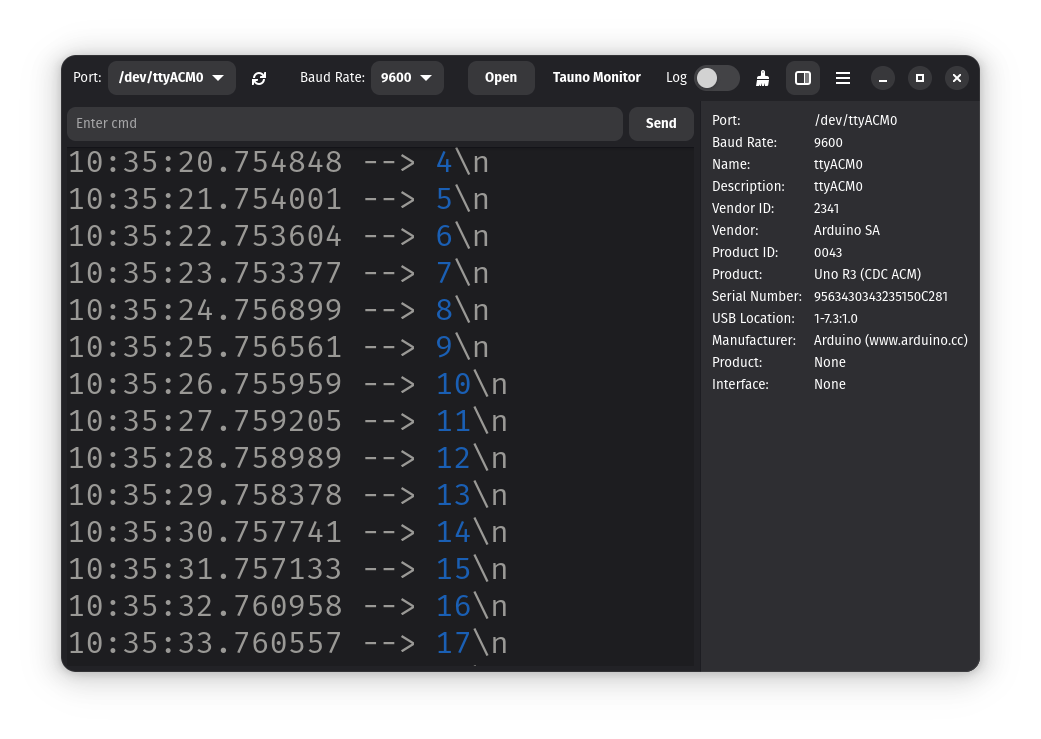
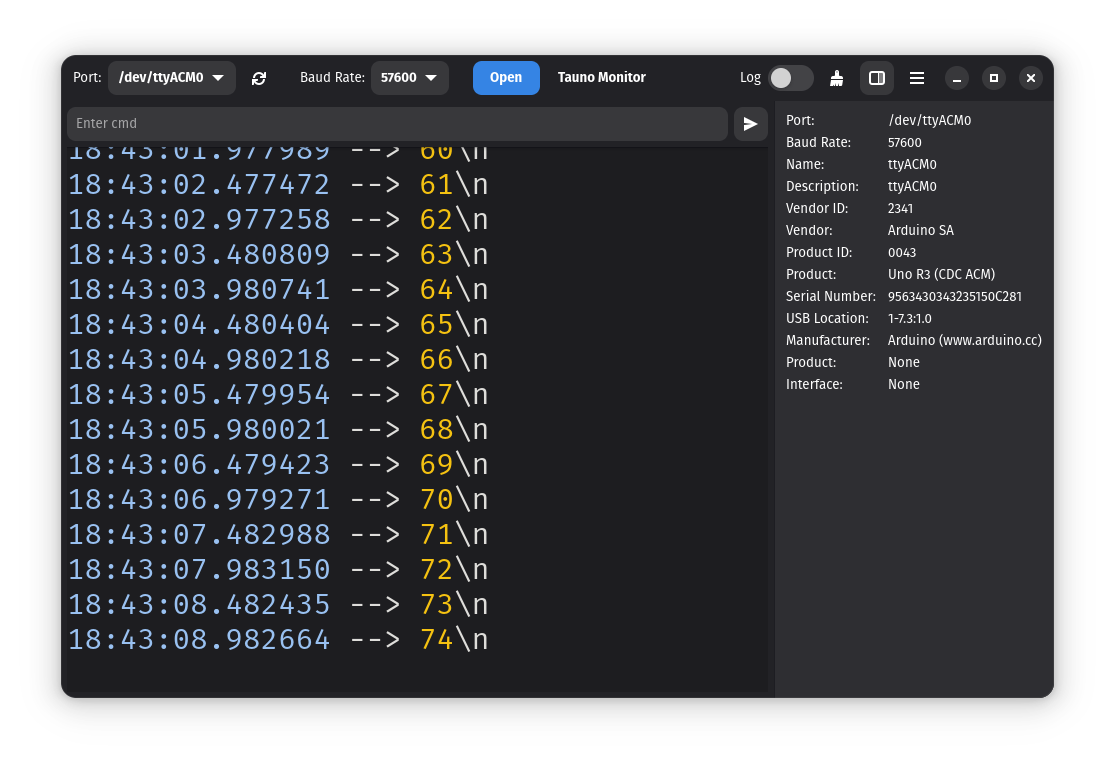
ui tweaks and log fix

Changed region(s): [[0.0307, 0.0622, 0.9529, 0.9337], [0.6455, 0.0622, 0.83, 0.1245]]

diff --git a/src/tauno_logging.py b/src/tauno_logging.py
@@ -1,7 +1,7 @@
 # File:    tauno_logging.py
 # Author:  Tauno Erik
 # Started: 29.07.2024
-# Edited:  31.07.2024
+# Edited:  19.07.2025
 
 from datetime import datetime
 
@@ -9,41 +9,58 @@ class TaunoLogging():
 
     def __init__(self, window_reference):
         self.window_reference = window_reference
-        self.file_path = ''
+        self.log_file_path = ''
         self.file_handle = None
         self.hex_counter = 0
 
 
     def create_file(self, file_path):
         """ Creates log file. Returns True if successful. """
-        self.file_path = file_path
+        print("log:create_file()")
+
+        self.log_file_path = file_path
+
         try:
             open(self.log_file_path, "x")
-            # self.write_data('')
+            print(f"logfile:{self.log_file_path}")
             return True
-        except:
+        except Exception as e:
+            print(f"Error creating file: {e}")
             return False
 
 
     def write_data(self, data):
         """ Writes data to log file. Adds start time. """
+        print("log:write_data()")
         if self.window_reference.write_logs:
             # Open the file the first time the method is called
             if self.file_handle is None:
-                self.file_handle = open(self.file_path, 'a')
-                # Write start time
-                current_datetime = datetime.now().strftime("%Y-%m-%d-%H-%M-%S")
-                self.write_data("Tauno-Monitor log started: " + current_datetime + "\n")
+                try:
+                    self.file_handle = open(self.log_file_path, 'a')
+                    # Write start time
+                    current_datetime = datetime.now().strftime("%Y-%m-%d-%H-%M-%S")
+                    self.write_data("Tauno-Monitor log started: " + current_datetime + "\n")
+                except Exception as e:
+                    print(f"Error writing data: {e}")
+            else:
+                print("else:self.file_handle is None")
 
             # Write data to the file
             self.file_handle.write(data)
+            print(f"log write data: {data}")
+        else:
+            print("else:self.window_reference.write_logs")
+
 
     def write_hex_data(self, data):
         """ Write HEX data in a nice format """
+
+        print("log:write_hex_data()")
+
         if self.window_reference.write_logs:
             # Open the file the first time the method is called
             if self.file_handle is None:
-                self.file_handle = open(self.file_path, 'a')
+                self.file_handle = open(self.log_file_path, 'a')
                 # Write start time
                 current_datetime = datetime.now().strftime("%Y-%m-%d-%H-%M-%S")
                 self.write_data("Tauno-Monitor log started: " + current_datetime + "\n")
@@ -57,6 +74,9 @@ class TaunoLogging():
 
     def close_file(self):
         """ Closes log file. Adds end time, """
+
+        print("log:close_file()")
+
         # Write end time
         current_datetime = datetime.now().strftime("%Y-%m-%d-%H-%M-%S")
         self.write_data("\nTauno-Monitor log ended: " + current_datetime + "\n\n")

diff --git a/src/window.py b/src/window.py
@@ -80,6 +80,7 @@ class TaunoMonitorWindow(Adw.ApplicationWindow):
         gettext.textdomain('art.taunoerik.tauno-monitor')
         _ = gettext.gettext
 
+        self.connect("close-request", self.on_close_request)
 
         self.settings = Gio.Settings(schema_id="art.taunoerik.tauno-monitor")
 
@@ -201,6 +202,13 @@ class TaunoMonitorWindow(Adw.ApplicationWindow):
 
         # https://realpython.com/python-sleep/
         self.event = threading.Event()
+
+
+    def on_close_request(self, window):
+        print("Window is being closed")
+        if self.log_file_exist:
+                self.logging.close_file()
+        return False  # allow closing
 
 
     def create_action(self, name, function, shortcuts=None):

diff --git a/src/main.py b/src/main.py
@@ -29,7 +29,7 @@ from .preferences import TaunoPreferencesWindow
 import os
 import gettext, locale
 
-APP_VERSION = '0.2.10'
+APP_VERSION = '0.2.11'
 
 class TaunoMonitorApplication(Adw.Application):
     """The main application singleton class."""
